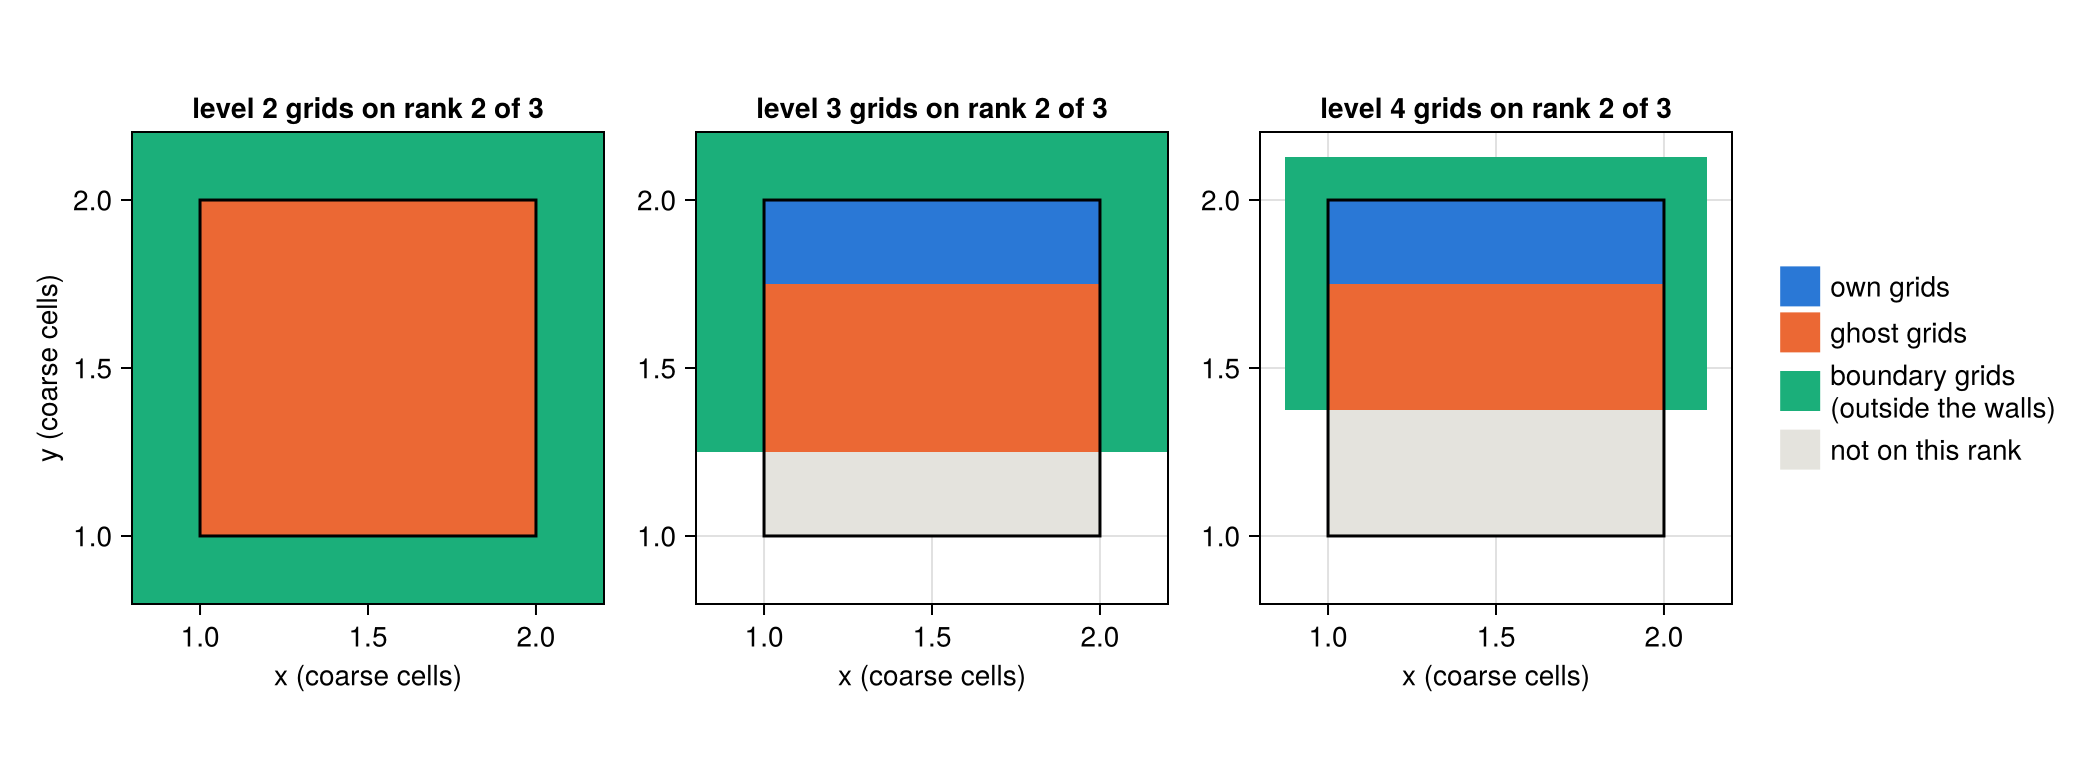
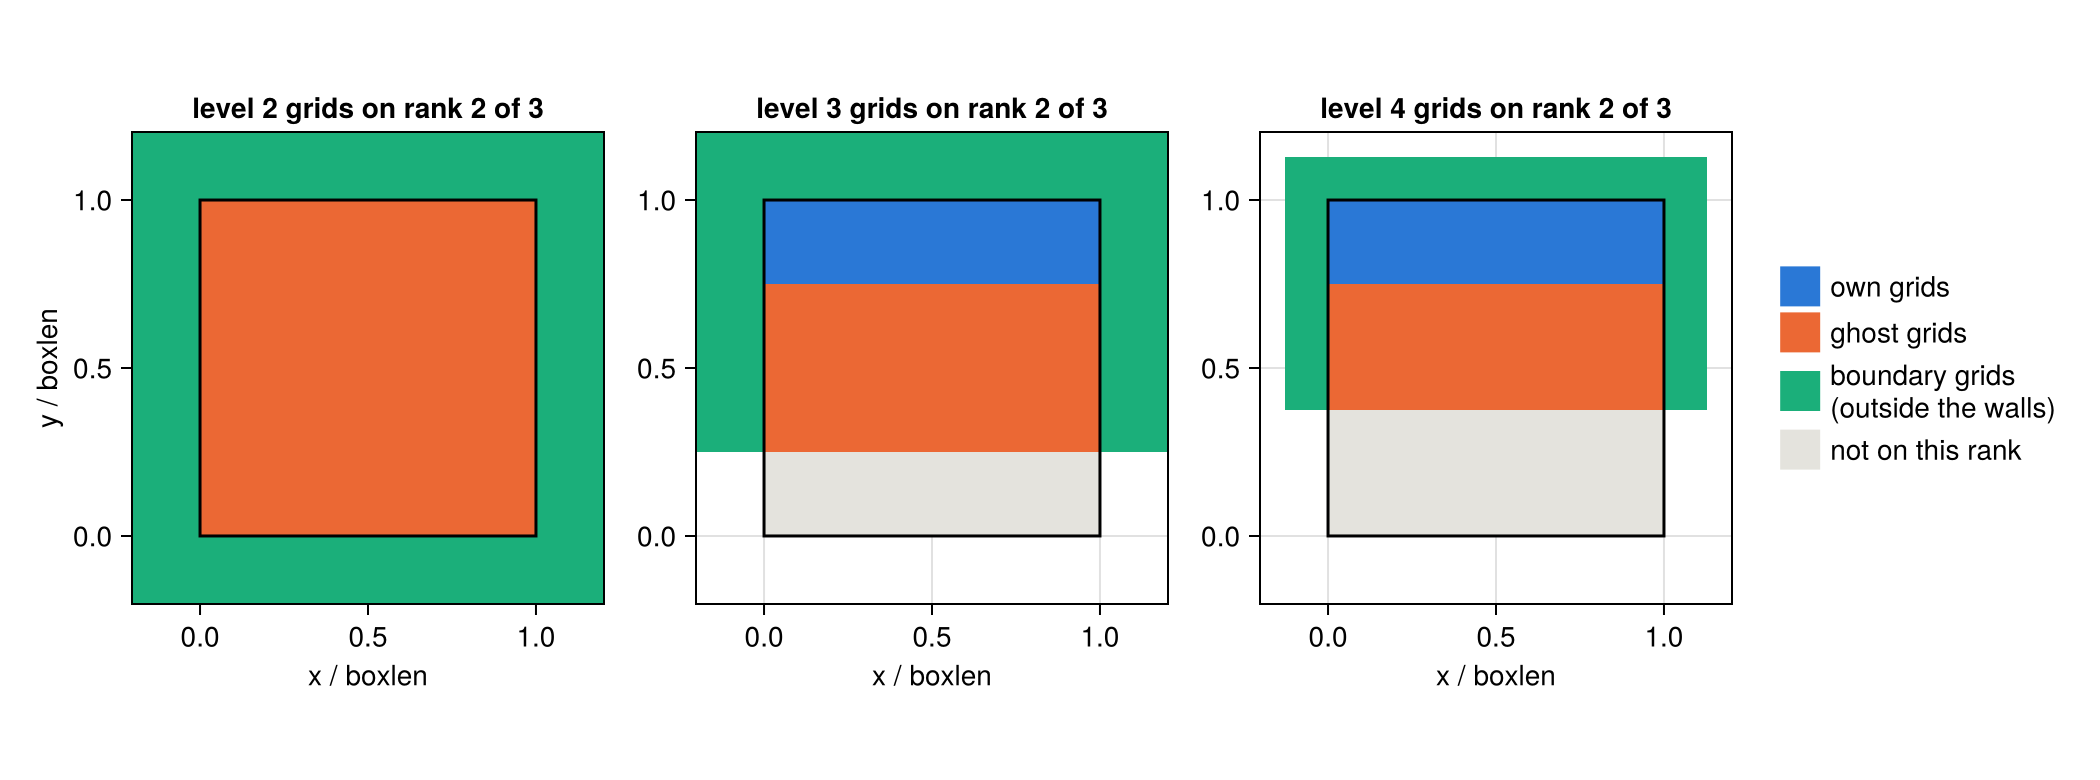
docs(ramses_writer): walls for a broader audience
- the walls figure in box units, the box from 0 to 1
- wall types and the reason for boundary grids in plain words; the caption explains each panel
- grid counts through a small helper

diff --git a/docs/src/07_2_multi_RAMSES_Restart.md b/docs/src/07_2_multi_RAMSES_Restart.md
@@ -226,14 +226,14 @@ function leaf_cells(t)
     out
 end
 
-# Which grids rank k holds under each pixel of a slice at height z on level lev: 0 not on the rank,
-# 1 own, 2 ghost, 3 boundary grid (outside a wall). Coordinates in coarse cells (box units for a
-# periodic box).
+# Which grids rank k holds under each pixel of a slice at height z (box units) on level lev:
+# 0 not on the rank, 1 own, 2 ghost, 3 boundary grid (outside a wall).
 function rank_grid_map(t, dec, lt, k, lev, z, xs)
     held, bnd = Set(lt.grids[lev]), Set(lt.bgrids[lev])
+    c0 = t.geom.cmin                                   # where the box starts in the coarse grid
     img = fill(NaN, length(xs), length(xs))
     for (i, x) in enumerate(xs), (j, y) in enumerate(xs)
-        ig = RW.Coord(floor.(Int, (x, y, z) .* 2^(lev - 1)))
+        ig = RW.Coord(floor.(Int, ((x, y, z) .+ c0) .* 2^(lev - 1)))
         if ig in bnd
             img[i, j] = 3.0
         else
@@ -244,24 +244,30 @@ function rank_grid_map(t, dec, lt, k, lev, z, xs)
     img
 end
 
-# The grids rank k holds on each of `levels`, side by side; `walls` draws the box (coarse cells 1 to 2).
+# The grids rank k holds on each of `levels`, side by side, in box units; `walls` draws the box.
 function rank_grids_figure(t, dec, k, levels; z, xs=((1:256) .- 0.5) ./ 256, walls=false)
     lt = RW.build_local_tree(t, dec, k)
     colors = ["#e4e3dd", CPU_COLORS[1], CPU_COLORS[2], CPU_COLORS[3]]
-    unit = walls ? " (coarse cells)" : " / boxlen"
     fig = Figure(size=(1050, 390))
     for (col, lev) in enumerate(levels)
         ax = Axis(fig[1, col]; aspect=DataAspect(), title="level $lev grids on rank $k of $(dec.ncpu)",
-                  xlabel="x" * unit, ylabel = col == 1 ? "y" * unit : "")
+                  xlabel="x / boxlen", ylabel = col == 1 ? "y / boxlen" : "")
         heatmap!(ax, xs, xs, rank_grid_map(t, dec, lt, k, lev, z, xs);
                  colormap=cgrad(colors; categorical=true), colorrange=(-0.5, 3.5))
-        walls && lines!(ax, [1, 2, 2, 1, 1], [1, 1, 2, 2, 1]; color=:black, linewidth=1.5)
+        walls && lines!(ax, [0, 1, 1, 0, 0], [0, 0, 1, 1, 0]; color=:black, linewidth=1.5)
     end
     shown = walls ? [2, 3, 4, 1] : [2, 3, 1]
     labels = Dict(2 => "own grids", 3 => "ghost grids", 4 => "boundary grids\n(outside the walls)", 1 => "not on this rank")
     Legend(fig[1, length(levels) + 1], [PolyElement(color=colors[c]) for c in shown], [labels[c] for c in shown];
            framevisible=false)
     fig
+end
+
+# How many own, ghost and boundary grids rank k holds.
+function grid_counts(t, dec, k)
+    lt = RW.build_local_tree(t, dec, k)
+    own = sum(lt.numbl[k, :])
+    return (own=own, ghost=sum(lt.numbl) - own, boundary=sum(lt.numbb))
 end;
 ```
 
@@ -408,11 +414,12 @@ left edge. White: not refined there.
 
 ### Walls
 
-Many runs have walls instead of a periodic box (outflow, reflexive or imposed, set in
-`&BOUNDARY_PARAMS`). Their files hold a third kind of grid: the **boundary grids** just outside each
-wall, whose values mirror the cells inside. RAMSES needs them to restart, so `repartition` must
-build them for every new rank; check 1 (section 4) tests them too. The Sedov run with outflow walls
-on all six faces, split over 3 ranks:
+Many runs have walls instead of a periodic box: gas flows out (outflow), bounces back (reflexive) or
+flows in with fixed values (imposed). The solver also needs cells beyond a wall, so RAMSES keeps a
+layer of **boundary grids** just outside each wall, filled from the cells just inside. These grids
+are stored in the files, so `repartition` must build them for every new rank; check 1 (section 4)
+tests them. The example is the Sedov run with outflow walls on all six faces, split over 3 ranks.
+How many grids each rank holds:
 
 ```julia
 OUTFLOW = joinpath(RUNS, "sedov3d_outflow_ncpu4")     # Sedov run, outflow walls on all six faces
@@ -420,8 +427,8 @@ to   = RW.read_global_tree(joinpath(OUTFLOW, "output_00004"), 4; verbose=false)
 deco = RW.decompose(to, 3)
 println("rank  own grids  ghost grids  boundary grids")
 for k in 1:3
-    lt = RW.build_local_tree(to, deco, k); own = sum(lt.numbl[k, :])
-    @printf("%-5d %-10d %-12d %d\n", k, own, sum(lt.numbl) - own, sum(lt.numbb))
+    g = grid_counts(to, deco, k)
+    @printf("%-5d %-10d %-12d %d\n", k, g.own, g.ghost, g.boundary)
 end
 ```
 
@@ -433,15 +440,17 @@ rank  own grids  ghost grids  boundary grids
 ```
 
 ```julia
-# Rank 2 around the box, levels 2 to 4. The slice is the x-y plane through the box centre
-# (z = 1.5 coarse cells; the box spans coarse cells 1 to 2).
-rank_grids_figure(to, deco, 2, (2, 3, 4); z=1.5, xs=range(0.8, 2.2; length=280), walls=true)
+# Rank 2 around the box, levels 2 to 4, in the x-y plane through the box centre (z = 0.5)
+rank_grids_figure(to, deco, 2, (2, 3, 4); z=0.5, xs=range(-0.2, 1.2; length=280), walls=true)
 ```
 
 ![](07_2_multi_RAMSES_Restart_files/07_2_multi_RAMSES_Restart_17_1.png)
 
-The black square is the box. Green: boundary grids, held where rank 2's own or ghost grids reach a
-wall. Ghosts are about 9 % of a rank's grids here, because most grids are on finer levels.
+The black square is the box. Green: the boundary grids rank 2 holds, outside the walls next to its
+own and ghost grids. On level 2 one grid is half the box, so rank 2 holds every grid there as a
+ghost. On finer levels it owns the top of the box (blue), and the green layer gets thinner, since
+each grid is half as wide. White: no grid there. Ghosts are about 9 % of a rank's grids here,
+because most grids are on finer levels.
 
 ## 3. `repartition`: what it does, step by step
 
@@ -467,11 +476,11 @@ rep = repartition(6, SEDOV, 3; outpath=joinpath(WORK, "sedov_3cpu"));
 [5/5] particles, clump tables and text files
 RAMSES output repartitioned: ncpu 4 → 3
   from : /Volumes/FASTStorage/projects/RamsesConverter/testruns/sedov3d_amr_lb_ncpu4/output_00006
-  to   : /var/folders/k5/gw4hqgwj5_qf8sljz0091x1m0000gp/T/jl_JbIcpX/sedov_3cpu/output_00006
+  to   : /var/folders/k5/gw4hqgwj5_qf8sljz0091x1m0000gp/T/jl_s3bfeX/sedov_3cpu/output_00006
   own grids per rank      : min 335, max 338
   grids in memory per rank: min 592, max 673  (own + ghost + boundary)
   restart namelist needs  : ngridmax ≥ 674
-  14 files written in 0.7 s
+  14 files written in 0.8 s
 ```
 
 The report's last line goes into the restart namelist: `ngridmax` (and `npartmax`) per rank. Fewer
